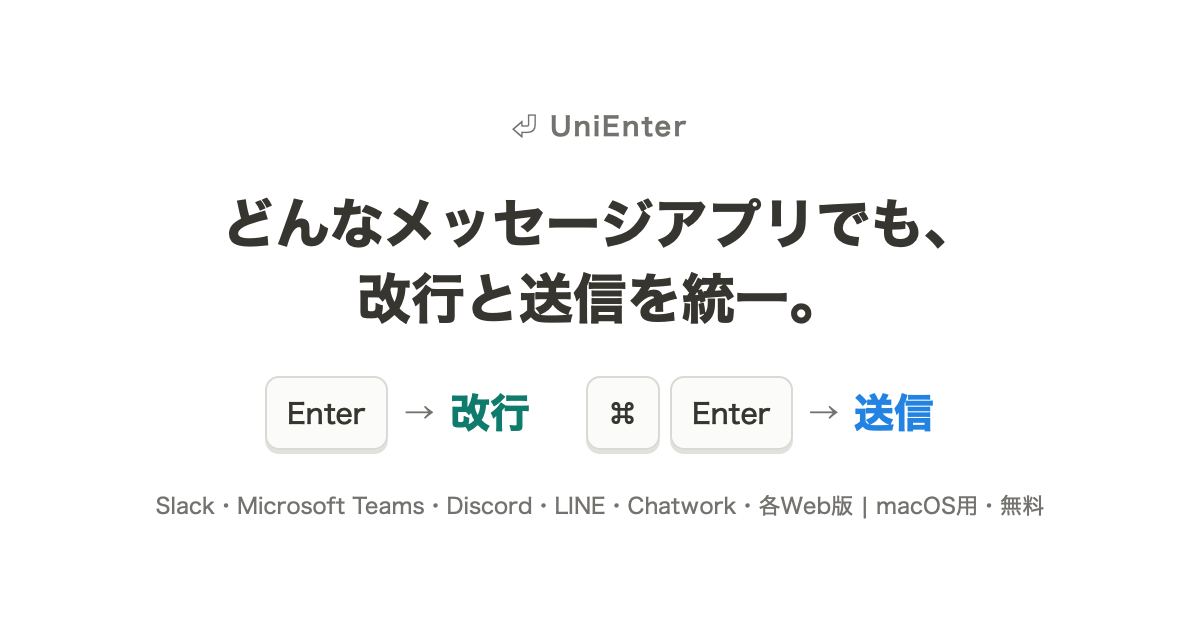
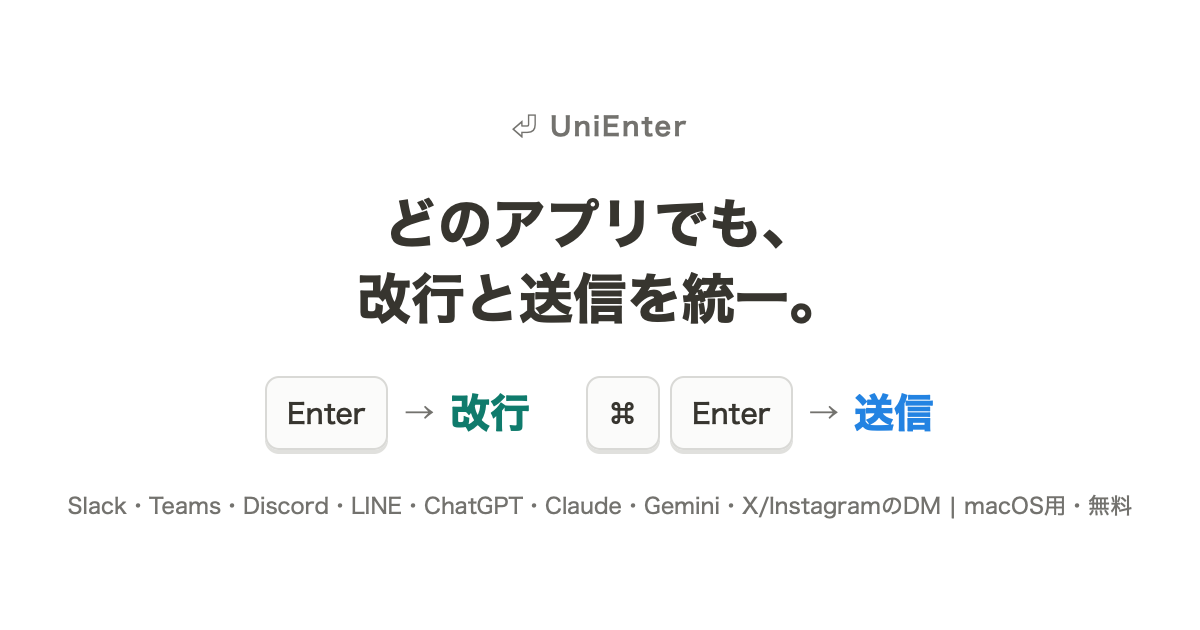
Swap targets: add X/Instagram DM (web, path-gated), drop Chatwork; credit octo with contact

Changed region(s): [[0.185, 0.3016, 0.8017, 0.3921], [0.0617, 0.7841, 0.9558, 0.8444]]

diff --git a/UniEnterTests/WebAppMatcherTests.swift b/UniEnterTests/WebAppMatcherTests.swift
@@ -45,15 +45,29 @@ final class WebAppMatcherTests: XCTestCase {
         XCTAssertNil(match("https://discord.com/download"))
     }
 
-    // MARK: - Chatwork
+    // MARK: - X / Instagram (DMのみ)
 
-    func testChatworkChatScreenMatches() {
-        XCTAssertEqual(match("https://www.chatwork.com/#!rid12345"), "com.electron.chatwork")
+    func testXDirectMessagesMatch() {
+        XCTAssertEqual(match("https://x.com/messages/12345"), "web.x.com")
+        XCTAssertEqual(match("https://twitter.com/messages"), "web.x.com")
     }
 
-    func testChatworkLoginAndMarketingDoNotMatch() {
-        XCTAssertNil(match("https://www.chatwork.com/login.php"))
-        XCTAssertNil(match("https://go.chatwork.com/ja/"))
+    func testXTimelineDoesNotMatch() {
+        XCTAssertNil(match("https://x.com/home"))
+        XCTAssertNil(match("https://x.com/compose/post"))
+    }
+
+    func testInstagramDirectMatches() {
+        XCTAssertEqual(match("https://www.instagram.com/direct/t/12345"), "web.instagram.com")
+    }
+
+    func testInstagramFeedDoesNotMatch() {
+        XCTAssertNil(match("https://www.instagram.com/"))
+        XCTAssertNil(match("https://www.instagram.com/p/abc123/"))
+    }
+
+    func testChatworkNoLongerMatches() {
+        XCTAssertNil(match("https://www.chatwork.com/#!rid12345"))
     }
 
     // MARK: - AIチャット・Messenger
@@ -101,10 +115,10 @@ final class WebAppMatcherTests: XCTestCase {
         XCTAssertNil(WebAppMatcher.serviceBundleID(for: url, hostOnly: false))
     }
 
-    func testHostOnlyRelaxesChatworkFragmentRequirement() {
-        let url = URL(string: "https://www.chatwork.com/")!
-        XCTAssertEqual(WebAppMatcher.serviceBundleID(for: url, hostOnly: true), "com.electron.chatwork")
-        XCTAssertNil(WebAppMatcher.serviceBundleID(for: url, hostOnly: false))
+    func testHostOnlyDoesNotMatchPathGatedSocialHosts() {
+        // XやInstagramはDMパスが確認できない限り対象にしない(Arc等のドメインのみ取得)
+        XCTAssertNil(WebAppMatcher.serviceBundleID(for: URL(string: "https://x.com/")!, hostOnly: true))
+        XCTAssertNil(WebAppMatcher.serviceBundleID(for: URL(string: "https://www.instagram.com/")!, hostOnly: true))
     }
 
     func testHostOnlyStillRejectsUnrelatedHosts() {

diff --git a/site/src/App.tsx b/site/src/App.tsx
@@ -73,7 +73,6 @@ const desktopApps = [
   "Microsoft Teams",
   "Discord",
   "LINE",
-  "Chatwork",
   "ChatGPT",
   "Claude",
   "Messenger",
@@ -180,14 +179,15 @@ export default function App() {
                 ))}
               </div>
               <p className="mt-4 text-xs text-muted-foreground">
-                設定のチェックボックスでアプリごとにオン/オフできます
+                設定のチェックボックスでアプリごとにオン/オフできます。
+                XとInstagramのDM・GeminiはWeb版で対応。
               </p>
             </WindowMock>
             <WindowMock title="ブラウザ — Safari / Chrome / Edge / Arc など">
               <div className="space-y-2">
                 <UrlRow url="app.slack.com" active />
                 <UrlRow url="chatgpt.com" active />
-                <UrlRow url="gemini.google.com" active />
+                <UrlRow url="x.com/messages(DM)" active />
                 <UrlRow url="example.com" active={false} />
               </div>
             </WindowMock>
@@ -280,7 +280,12 @@ export default function App() {
           <a className="underline" href="https://github.com/iwai-ddndn/UniEnter/releases">ダウンロード</a>
           <a className="underline" href="./support.html">開発を支援</a>
         </p>
-        <p>© 2026 UniEnter</p>
+        <p>
+          © 2026 octo — お問い合わせ:{" "}
+          <a className="underline" href="mailto:[email redacted]">
+            [email redacted]
+          </a>
+        </p>
         <p className="mx-auto mt-2 max-w-lg">
           記載の製品名は各社の商標です。本アプリは各社と無関係の個人開発ソフトウェアです。
         </p>

diff --git a/UniEnter/Browser/WebAppMatcher.swift b/UniEnter/Browser/WebAppMatcher.swift
@@ -39,10 +39,6 @@ enum WebAppMatcher {
             // discord.com ルートはマーケティングサイトのためパスで判定
             if hostOnly { return "com.hnc.Discord" }
             return url.path.hasPrefix("/channels") ? "com.hnc.Discord" : nil
-        case "www.chatwork.com":
-            // チャット画面は #!rid{数字}。ログインページ等でフォーム送信のEnterを壊さない
-            if hostOnly { return "com.electron.chatwork" }
-            return (url.fragment?.hasPrefix("!rid") ?? false) ? "com.electron.chatwork" : nil
         case "chatgpt.com", "chat.openai.com":
             // マーケティングは openai.com 側
             return "com.openai.codex"
@@ -57,6 +53,14 @@ enum WebAppMatcher {
             // messenger.com閉鎖後の本体。メッセージ画面のパスに限定(コメント欄等に干渉しない)
             if hostOnly { return nil }
             return url.path.hasPrefix("/messages") ? "com.facebook.archon" : nil
+        case "x.com", "www.x.com", "twitter.com", "www.twitter.com":
+            // DMのみ対象(ポスト作成欄は元々Enter=改行なので触らない)
+            if hostOnly { return nil }
+            return url.path.hasPrefix("/messages") ? "web.x.com" : nil
+        case "www.instagram.com", "instagram.com":
+            // DMのみ対象(コメント欄等に干渉しない)
+            if hostOnly { return nil }
+            return url.path.hasPrefix("/direct") ? "web.instagram.com" : nil
         default:
             return nil
         }

diff --git a/site/src/SupportPage.tsx b/site/src/SupportPage.tsx
@@ -86,7 +86,12 @@ export default function SupportPage() {
       </main>
 
       <footer className="border-t px-6 py-10 text-center text-xs text-muted-foreground">
-        <p>© 2026 UniEnter</p>
+        <p>
+          © 2026 octo — お問い合わせ:{" "}
+          <a className="underline" href="mailto:[email redacted]">
+            [email redacted]
+          </a>
+        </p>
       </footer>
     </div>
   )

diff --git a/UniEnter/UI/SettingsView.swift b/UniEnter/UI/SettingsView.swift
@@ -110,6 +110,12 @@ struct SettingsView: View {
                 get: { model.launchAtLogin },
                 set: { model.setLaunchAtLogin($0) }
             ))
+
+            Divider()
+
+            Text("制作: octo — [[email redacted]](mailto:[email redacted])")
+                .font(.caption)
+                .foregroundColor(.secondary)
         }
         .padding(20)
         .frame(width: 320)

diff --git a/UniEnter/Settings/AppRegistry.swift b/UniEnter/Settings/AppRegistry.swift
@@ -13,8 +13,6 @@ enum AppRegistry {
         TargetApp(name: "Slack", bundleID: "com.tinyspeck.slackmacgap"),
         TargetApp(name: "Discord", bundleID: "com.hnc.Discord"),
         TargetApp(name: "LINE", bundleID: "jp.naver.line.mac"),
-        // Electronビルダー既定の接頭辞をそのまま使っている(com.chatwork.* ではない)
-        TargetApp(name: "Chatwork", bundleID: "com.electron.chatwork"),
         // 2026年7月のCodex統合後の現行ChatGPT.app。旧ChatGPT Classicはaliasesで対応
         TargetApp(name: "ChatGPT", bundleID: "com.openai.codex"),
         TargetApp(name: "Claude", bundleID: "com.anthropic.claudefordesktop"),
@@ -23,6 +21,9 @@ enum AppRegistry {
         TargetApp(name: "Gemini", bundleID: "web.gemini.google.com"),
         // デスクトップアプリは2025年末に廃止済み(残存インストール向け)。主戦場はWeb判定
         TargetApp(name: "Messenger", bundleID: "com.facebook.archon"),
+        // XとInstagramのDMはWeb専用(公式デスクトップアプリなし)。設定キー兼Web判定用の擬似ID
+        TargetApp(name: "X(DM)", bundleID: "web.x.com"),
+        TargetApp(name: "Instagram(DM)", bundleID: "web.instagram.com"),
     ]
 
     /// 同一サービスの別bundle IDを代表IDへ寄せる(設定・判定は代表IDで行う)

diff --git a/docs/index.html b/docs/index.html
@@ -5,12 +5,12 @@
     <meta name="viewport" content="width=device-width, initial-scale=1.0" />
     <link rel="icon" type="image/png" href="./assets/favicon.png" />
     <title>UniEnter — どのアプリでも、改行と送信を統一。</title>
-    <meta name="description" content="Enterはいつでも改行、送信は⌘Enter。Slack・Teams・Discord・LINE・Chatwork・ChatGPT・Claude・Gemini・Messengerとそのブラウザ版で「うっかり送信」をなくすmacOSメニューバーアプリ。日本語IMEに安全設計。無料。" />
+    <meta name="description" content="Enterはいつでも改行、送信は⌘Enter。Slack・Teams・Discord・LINE・ChatGPT・Claude・Gemini・Messenger・X/InstagramのDMとそのブラウザ版で「うっかり送信」をなくすmacOSメニューバーアプリ。日本語IMEに安全設計。無料。" />
     <meta property="og:title" content="UniEnter — どのアプリでも、改行と送信を統一。" />
     <meta property="og:description" content="Enterはいつでも改行、送信は⌘Enter。SlackもChatGPTも、「うっかり送信」をなくします。" />
     <meta property="og:image" content="assets/og.png" />
     <meta property="og:type" content="website" />
-    <script type="module" crossorigin src="./assets/main-BPyX2AMm.js"></script>
+    <script type="module" crossorigin src="./assets/main-CV44kSDD.js"></script>
     <link rel="modulepreload" crossorigin href="./assets/card-Bi2fn4cY.js">
     <link rel="stylesheet" crossorigin href="./assets/card-qIgYnlQx.css">
   </head>

diff --git a/docs/support.html b/docs/support.html
@@ -6,7 +6,7 @@
     <link rel="icon" type="image/png" href="./assets/favicon.png" />
     <title>開発を支援する — UniEnter</title>
     <meta name="description" content="UniEnterは無料で使えるmacOSアプリです。役に立ったら、コーヒー1杯分の投げ銭で開発を応援できます。" />
-    <script type="module" crossorigin src="./assets/support-Chu1tvAc.js"></script>
+    <script type="module" crossorigin src="./assets/support-vKm4Vaa6.js"></script>
     <link rel="modulepreload" crossorigin href="./assets/card-Bi2fn4cY.js">
     <link rel="stylesheet" crossorigin href="./assets/card-qIgYnlQx.css">
   </head>

diff --git a/site/index.html b/site/index.html
@@ -5,7 +5,7 @@
     <meta name="viewport" content="width=device-width, initial-scale=1.0" />
     <link rel="icon" type="image/png" href="./assets/favicon.png" />
     <title>UniEnter — どのアプリでも、改行と送信を統一。</title>
-    <meta name="description" content="Enterはいつでも改行、送信は⌘Enter。Slack・Teams・Discord・LINE・Chatwork・ChatGPT・Claude・Gemini・Messengerとそのブラウザ版で「うっかり送信」をなくすmacOSメニューバーアプリ。日本語IMEに安全設計。無料。" />
+    <meta name="description" content="Enterはいつでも改行、送信は⌘Enter。Slack・Teams・Discord・LINE・ChatGPT・Claude・Gemini・Messenger・X/InstagramのDMとそのブラウザ版で「うっかり送信」をなくすmacOSメニューバーアプリ。日本語IMEに安全設計。無料。" />
     <meta property="og:title" content="UniEnter — どのアプリでも、改行と送信を統一。" />
     <meta property="og:description" content="Enterはいつでも改行、送信は⌘Enter。SlackもChatGPTも、「うっかり送信」をなくします。" />
     <meta property="og:image" content="assets/og.png" />

diff --git a/docs/assets/main-CV44kSDD.js b/docs/assets/main-CV44kSDD.js
@@ -1,0 +1,1 @@
+import{a as e,c as t,d as n,f as r,i,l as a,m as o,n as s,o as c,p as l,r as u,s as d,t as f,u as p}from"./card-Bi2fn4cY.js";var m=p(`chevron-down`,[[`path`,{d:`m6 9 6 6 6-6`,key:`qrunsl`}]]),h=p(`lock`,[[`rect`,{width:`18`,height:`11`,x:`3`,y:`11`,rx:`2`,ry:`2`,key:`1w4ew1`}],[`path`,{d:`M7 11V7a5 5 0 0 1 10 0v4`,key:`fwvmzm`}]]),g=o(l(),1);r();var _=c(),v=[`a`,`button`,`div`,`form`,`h2`,`h3`,`img`,`input`,`label`,`li`,`nav`,`ol`,`p`,`select`,`span`,`svg`,`ul`].reduce((e,t)=>{let n=d(`Primitive.${t}`),r=g.forwardRef((e,r)=>{let{asChild:i,...a}=e,o=i?n:t;return typeof window<`u`&&(window[Symbol.for(`radix-ui`)]=!0),(0,_.jsx)(o,{...a,ref:r})});return r.displayName=`Primitive.${t}`,{...e,[t]:r}},{});function y(e,t=[]){let n=[];function r(t,r){let i=g.createContext(r);i.displayName=t+`Context`;let a=n.length;n=[...n,r];let o=t=>{let{scope:n,children:r,...o}=t,s=n?.[e]?.[a]||i,c=g.useMemo(()=>o,Object.values(o));return(0,_.jsx)(s.Provider,{value:c,children:r})};o.displayName=t+`Provider`;function s(n,o,s={}){let{optional:c=!1}=s,l=o?.[e]?.[a]||i,u=g.useContext(l);if(u)return u;if(r!==void 0)return r;if(!c)throw Error(`\`${n}\` must be used within \`${t}\``)}return[o,s]}let i=()=>{let t=n.map(e=>g.createContext(e));return function(n){let r=n?.[e]||t;return g.useMemo(()=>({[`__scope${e}`]:{...n,[e]:r}}),[n,r])}};return i.scopeName=e,[r,b(i,...t)]}function b(...e){let t=e[0];if(e.length===1)return t;let n=()=>{let n=e.map(e=>({useScope:e(),scopeName:e.scopeName}));return function(e){let r=n.reduce((t,{useScope:n,scopeName:r})=>{let i=n(e)[`__scope${r}`];return{...t,...i}},{});return g.useMemo(()=>({[`__scope${t.scopeName}`]:r}),[r])}};return n.scopeName=t.scopeName,n}function x(e){let n=e+`CollectionProvider`,[r,i]=y(n),[a,o]=r(n,{collectionRef:{current:null},itemMap:new Map}),s=e=>{let{scope:t,children:n}=e,r=g.useRef(null),i=g.useRef(new Map).current;return(0,_.jsx)(a,{scope:t,itemMap:i,collectionRef:r,children:n})};s.displayName=n;let c=e+`CollectionSlot`,l=d(c),u=g.forwardRef((e,n)=>{let{scope:r,children:i}=e,a=t(n,o(c,r).collectionRef);return(0,_.jsx)(l,{ref:a,children:i})});u.displayName=c;let f=e+`CollectionItemSlot`,p=`data-radix-collection-item`,m=d(f),h=g.forwardRef((e,n)=>{let{scope:r,children:i,...a}=e,s=g.useRef(null),c=t(n,s),l=o(f,r);return g.useEffect(()=>(l.itemMap.set(s,{ref:s,...a}),()=>void l.itemMap.delete(s))),(0,_.jsx)(m,{[p]:``,ref:c,children:i})});h.displayName=f;function v(t){let n=o(e+`CollectionConsumer`,t);return g.useCallback(()=>{let e=n.collectionRef.current;if(!e)return[];let t=Array.from(e.querySelectorAll(`[${p}]`));return Array.from(n.itemMap.values()).sort((e,n)=>t.indexOf(e.ref.current)-t.indexOf(n.ref.current))},[n.collectionRef,n.itemMap])}return[{Provider:s,Slot:u,ItemSlot:h},v,i]}var ee=Object.defineProperty,S=(e,t)=>ee(e,`name`,{value:t,configurable:!0}),C=!!(typeof window<`u`&&window.document&&window.document.createElement);function w(e,t,{checkForDefaultPrevented:n=!0}={}){return S(function(r){if(e?.(r),n===!1||!r||!r.defaultPrevented)return t?.(r)},`handleEvent`)}S(w,`composeEventHandlers`);function te(e){if(!C)throw Error(`Cannot access window outside of the DOM`);return e?.ownerDocument?.defaultView??window}S(te,`getOwnerWindow`);function T(e){if(!C)throw Error(`Cannot access document outside of the DOM`);return e?.ownerDocument??document}S(T,`getOwnerDocument`);function E(e,t=!1){let{activeElement:n}=T(e);if(!n?.nodeName)return null;if(D(n)&&n.contentDocument)return E(n.contentDocument.body,t);if(t){let e=n.getAttribute(`aria-activedescendant`);if(e){let t=T(n).getElementById(e);if(t)return t}}return n}S(E,`getActiveElement`);function D(e){return e.tagName===`IFRAME`}S(D,`isFrame`);var O=globalThis?.document?g.useLayoutEffect:()=>{},ne=g.useEffectEvent,re=g.useInsertionEffect;function ie(e){if(typeof ne==`function`)return ne(e);let t=g.useRef(()=>{throw Error(`Cannot call an event handler while rendering.`)});return typeof re==`function`?re(()=>{t.current=e}):O(()=>{t.current=e}),g.useMemo(()=>((...e)=>t.current?.(...e)),[])}var ae=Object.defineProperty,k=(e,t)=>ae(e,`name`,{value:t,configurable:!0}),oe=g.useInsertionEffect||O;function A({prop:e,defaultProp:t,onChange:n=k(()=>{},`onChange`),caller:r}){let[i,a,o]=se({defaultProp:t,onChange:n}),s=e!==void 0;return[s?e:i,g.useCallback(t=>{if(s){let n=j(t)?t(e):t;n!==e&&o.current?.(n)}else a(t)},[s,e,a,o])]}k(A,`useControllableState`);function se({defaultProp:e,onChange:t}){let[n,r]=g.useState(e),i=g.useRef(n),a=g.useRef(t);return oe(()=>{a.current=t},[t]),g.useEffect(()=>{i.current!==n&&(a.current?.(n),i.current=n)},[n,i]),[n,r,a]}k(se,`useUncontrolledState`);function j(e){return typeof e==`function`}k(j,`isFunction`);var M=Symbol(`RADIX:SYNC_STATE`);function ce(e,t,n,r){let{prop:i,defaultProp:a,onChange:o,caller:s}=t,c=i!==void 0,l=ie(o),u=[{...n,state:a}];r&&u.push(r);let[d,f]=g.useReducer((t,n)=>{if(n.type===M)return{...t,state:n.state};let r=e(t,n);return c&&!Object.is(r.state,t.state)&&l(r.state),r},...u),p=d.state,m=g.useRef(p);g.useEffect(()=>{m.current!==p&&(m.current=p,c||l(p))},[p,m,c]);let h=g.useMemo(()=>i===void 0?d:{...d,state:i},[d,i]);return g.useEffect(()=>{c&&!Object.is(i,d.state)&&f({type:M,state:i})},[i,d.state,c]),[h,f]}k(ce,`useControllableStateReducer`);var le=Object.defineProperty,N=(e,t)=>le(e,`name`,{value:t,configurable:!0});function ue(e,t){return g.useReducer((e,n)=>t[e][n]??e,e)}N(ue,`useStateMachine`);var de=N(e=>{let{present:t,children:n}=e,r=fe(t),i=typeof n==`function`?n({present:r.isPresent}):g.Children.only(n),a=F(r.ref,pe(i));return typeof n==`function`||r.isPresent?g.cloneElement(i,{ref:a}):null},`Presence`);function fe(e){let[t,n]=g.useState(),r=g.useRef(null),i=g.useRef(e),a=g.useRef(`none`),o=g.useRef(void 0),[s,c]=ue(e?`mounted`:`unmounted`,{mounted:{UNMOUNT:`unmounted`,ANIMATION_OUT:`unmountSuspended`},unmountSuspended:{MOUNT:`mounted`,ANIMATION_END:`unmounted`},unmounted:{MOUNT:`mounted`}});return g.useEffect(()=>{s===`mounted`?(a.current=o.current??I(r.current),o.current=void 0):a.current=`none`},[s]),O(()=>{let t=r.current,n=i.current;if(n!==e){let r=a.current,s=I(t);e?(o.current=s,c(`MOUNT`)):s===`none`||t?.display===`none`?c(`UNMOUNT`):c(n&&r!==s?`ANIMATION_OUT`:`UNMOUNT`),i.current=e}},[e,c]),O(()=>{if(t){let e,n=t.ownerDocument.defaultView??window,o=N(a=>{let o=I(r.current).includes(CSS.escape(a.animationName));if(a.target===t&&o&&(c(`ANIMATION_END`),!i.current)){let r=t.style.animationFillMode;t.style.animationFillMode=`forwards`,e=n.setTimeout(()=>{t.style.animationFillMode===`forwards`&&(t.style.animationFillMode=r)})}},`handleAnimationEnd`),s=N(e=>{e.target===t&&(a.current=I(r.current))},`handleAnimationStart`);return t.addEventListener(`animationstart`,s),t.addEventListener(`animationcancel`,o),t.addEventListener(`animationend`,o),()=>{n.clearTimeout(e),t.removeEventListener(`animationstart`,s),t.removeEventListener(`animationcancel`,o),t.removeEventListener(`animationend`,o)}}else c(`ANIMATION_END`)},[t,c]),{isPresent:[`mounted`,`unmountSuspended`].includes(s),ref:g.useCallback(e=>{if(e){let t=getComputedStyle(e);r.current=t,o.current=I(t)}else r.current=null;n(e)},[])}}N(fe,`usePresence`);function P(e,t){if(typeof e==`function`)return e(t);e!=null&&(e.current=t)}N(P,`setRef`);function F(...e){let t=g.useRef(e);return t.current=e,g.useCallback(e=>{let n=t.current,r=!1,i=n.map(t=>{let n=P(t,e);return!r&&typeof n==`function`&&(r=!0),n});if(r)return()=>{for(let e=0;e<i.length;e++){let t=i[e];typeof t==`function`?t():P(n[e],null)}}},[])}N(F,`useStableComposedRefs`);function I(e){return e?.animationName||`none`}N(I,`getAnimationName`);function pe(e){let t=Object.getOwnPropertyDescriptor(e.props,`ref`)?.get,n=t&&`isReactWarning`in t&&t.isReactWarning;return n?e.ref:(t=Object.getOwnPropertyDescriptor(e,`ref`)?.get,n=t&&`isReactWarning`in t&&t.isReactWarning,n?e.props.ref:e.props.ref||e.ref)}N(pe,`getElementRef`);var me=g.useId||(()=>void 0),he=0;function L(e){let[t,n]=g.useState(me());return O(()=>{e||n(e=>e??String(he++))},[e]),e||(t?`radix-${t}`:``)}var ge=Object.defineProperty,R=(e,t)=>ge(e,`name`,{value:t,configurable:!0}),z=`Collapsible`,[_e,B]=y(z),[ve,V]=_e(z),ye=g.forwardRef(R(function(e,t){let{__scopeCollapsible:n,open:r,defaultOpen:i,disabled:a,onOpenChange:o,...s}=e,[c,l]=A({prop:r,defaultProp:i??!1,onChange:o,caller:z});return(0,_.jsx)(ve,{scope:n,disabled:a,contentId:L(),open:c,onOpenToggle:g.useCallback(()=>l(e=>!e),[l]),children:(0,_.jsx)(v.div,{"data-state":U(c),"data-disabled":a?``:void 0,...s,ref:t})})},`Collapsible`)),be=`CollapsibleTrigger`,xe=g.forwardRef(R(function(e,t){let{__scopeCollapsible:n,...r}=e,i=V(be,n);return(0,_.jsx)(v.button,{type:`button`,"aria-controls":i.open?i.contentId:void 0,"aria-expanded":i.open||!1,"data-state":U(i.open),"data-disabled":i.disabled?``:void 0,disabled:i.disabled,...r,ref:t,onClick:w(e.onClick,i.onOpenToggle)})},`CollapsibleTrigger`)),H=`CollapsibleContent`,Se=g.forwardRef(R(function(e,t){let{forceMount:n,...r}=e,i=V(H,e.__scopeCollapsible);return(0,_.jsx)(de,{present:n||i.open,children:({present:e})=>(0,_.jsx)(Ce,{...r,ref:t,present:e})})},`CollapsibleContent`)),Ce=g.forwardRef(R(function(e,n){let{__scopeCollapsible:r,present:i,children:a,...o}=e,s=V(H,r),[c,l]=g.useState(i),u=g.useRef(null),d=t(n,u),f=g.useRef(0),p=f.current,m=g.useRef(0),h=m.current,y=s.open||c,b=g.useRef(y),x=g.useRef(void 0);return g.useEffect(()=>{let e=requestAnimationFrame(()=>b.current=!1);return()=>cancelAnimationFrame(e)},[]),O(()=>{let e=u.current;if(e){x.current=x.current||{transitionDuration:e.style.transitionDuration,animationName:e.style.animationName},e.style.transitionDuration=`0s`,e.style.animationName=`none`;let t=e.getBoundingClientRect();f.current=t.height,m.current=t.width,b.current||(e.style.transitionDuration=x.current.transitionDuration,e.style.animationName=x.current.animationName),l(i)}},[s.open,i]),(0,_.jsx)(v.div,{"data-state":U(s.open),"data-disabled":s.disabled?``:void 0,id:s.contentId,hidden:!y,...o,ref:d,style:{"--radix-collapsible-content-height":p?`${p}px`:void 0,"--radix-collapsible-content-width":h?`${h}px`:void 0,...e.style},children:y&&a})},`CollapsibleContentImpl`));function U(e){return e?`open`:`closed`}R(U,`getState`);var we=ye,Te=xe,Ee=Se,De=g.createContext(void 0);function Oe(e){let t=g.useContext(De);return e||t||`ltr`}var ke=Object.defineProperty,W=(e,t)=>ke(e,`name`,{value:t,configurable:!0}),G=`Accordion`,Ae=[`Home`,`End`,`ArrowDown`,`ArrowUp`,`ArrowLeft`,`ArrowRight`],[K,je,Me]=x(G),[q,Ne]=y(G,[Me,B]),J=B(),Pe=g.forwardRef(W(function(e,t){let{type:n,...r}=e,i=r,a=r;return(0,_.jsx)(K.Provider,{scope:e.__scopeAccordion,children:n===`multiple`?(0,_.jsx)(Be,{...a,ref:t}):(0,_.jsx)(ze,{...i,ref:t})})},`Accordion`)),[Fe,Ie]=q(G),[Le,Re]=q(G,{collapsible:!1}),ze=g.forwardRef(W(function(e,t){let{value:n,defaultValue:r,onValueChange:i=W(()=>{},`onValueChange`),collapsible:a=!1,...o}=e,[s,c]=A({prop:n,defaultProp:r??``,onChange:i,caller:G});return(0,_.jsx)(Fe,{scope:e.__scopeAccordion,value:g.useMemo(()=>s?[s]:[],[s]),onItemOpen:c,onItemClose:g.useCallback(()=>a&&c(``),[a,c]),children:(0,_.jsx)(Le,{scope:e.__scopeAccordion,collapsible:a,children:(0,_.jsx)(He,{...o,ref:t})})})},`AccordionImplSingle`)),Be=g.forwardRef(W(function(e,t){let{value:n,defaultValue:r,onValueChange:i=W(()=>{},`onValueChange`),...a}=e,[o,s]=A({prop:n,defaultProp:r??[],onChange:i,caller:G}),c=g.useCallback(e=>s((t=[])=>[...t,e]),[s]),l=g.useCallback(e=>s((t=[])=>t.filter(t=>t!==e)),[s]);return(0,_.jsx)(Fe,{scope:e.__scopeAccordion,value:o,onItemOpen:c,onItemClose:l,children:(0,_.jsx)(Le,{scope:e.__scopeAccordion,collapsible:!0,children:(0,_.jsx)(He,{...a,ref:t})})})},`AccordionImplMultiple`)),[Ve,Y]=q(G),He=g.forwardRef(W(function(e,n){let{__scopeAccordion:r,disabled:i,dir:a,orientation:o=`vertical`,...s}=e,c=t(g.useRef(null),n),l=je(r),u=Oe(a)===`ltr`,d=w(e.onKeyDown,e=>{if(!Ae.includes(e.key))return;let t=e.target,n=l().filter(e=>!e.ref.current?.disabled),r=n.findIndex(e=>e.ref.current===t),i=n.length;if(r===-1)return;e.preventDefault();let a=r,s=i-1,c=W(()=>{a=r+1,a>s&&(a=0)},`moveNext`),d=W(()=>{a=r-1,a<0&&(a=s)},`movePrev`);switch(e.key){case`Home`:a=0;break;case`End`:a=s;break;case`ArrowRight`:o===`horizontal`&&(u?c():d());break;case`ArrowDown`:o===`vertical`&&c();break;case`ArrowLeft`:o===`horizontal`&&(u?d():c());break;case`ArrowUp`:o===`vertical`&&d();break}n[a%i].ref.current?.focus()});return(0,_.jsx)(Ve,{scope:r,disabled:i,direction:a,orientation:o,children:(0,_.jsx)(K.Slot,{scope:r,children:(0,_.jsx)(v.div,{...s,"data-orientation":o,ref:c,onKeyDown:i?void 0:d})})})},`AccordionImpl`)),X=`AccordionItem`,[Ue,Z]=q(X),We=g.forwardRef(W(function(e,t){let{__scopeAccordion:n,value:r,...i}=e,a=Y(X,n),o=Ie(X,n),s=J(n),c=L(),l=r&&o.value.includes(r)||!1,u=a.disabled||e.disabled;return(0,_.jsx)(Ue,{scope:n,open:l,disabled:u,triggerId:c,children:(0,_.jsx)(we,{"data-orientation":a.orientation,"data-state":Q(l),...s,...i,ref:t,disabled:u,open:l,onOpenChange:e=>{e?o.onItemOpen(r):o.onItemClose(r)}})})},`AccordionItem`)),Ge=`AccordionHeader`,Ke=g.forwardRef(W(function(e,t){let{__scopeAccordion:n,...r}=e,i=Y(G,n),a=Z(Ge,n);return(0,_.jsx)(v.h3,{"data-orientation":i.orientation,"data-state":Q(a.open),"data-disabled":a.disabled?``:void 0,...r,ref:t})},`AccordionHeader`)),qe=`AccordionTrigger`,Je=g.forwardRef(W(function(e,t){let{__scopeAccordion:n,...r}=e,i=Y(G,n),a=Z(qe,n),o=Re(qe,n),s=J(n);return(0,_.jsx)(K.ItemSlot,{scope:n,children:(0,_.jsx)(Te,{"aria-disabled":a.open&&!o.collapsible||void 0,"data-orientation":i.orientation,id:a.triggerId,...s,...r,ref:t})})},`AccordionTrigger`)),Ye=`AccordionContent`,Xe=g.forwardRef(W(function(e,t){let{__scopeAccordion:n,...r}=e,i=Y(G,n),a=Z(Ye,n),o=J(n);return(0,_.jsx)(Ee,{role:`region`,"aria-labelledby":a.triggerId,"data-orientation":i.orientation,...o,...r,ref:t,style:{"--radix-accordion-content-height":`var(--radix-collapsible-content-height)`,"--radix-accordion-content-width":`var(--radix-collapsible-content-width)`,...e.style}})},`AccordionContent`));function Q(e){return e?`open`:`closed`}W(Q,`getState`);var Ze=Pe,Qe=We,$e=Ke,et=Je,tt=Xe,nt=n();function rt({...e}){return(0,_.jsx)(Ze,{"data-slot":`accordion`,...e})}function it({className:t,...n}){return(0,_.jsx)(Qe,{"data-slot":`accordion-item`,className:e(`border-b last:border-b-0`,t),...n})}function at({className:t,children:n,...r}){return(0,_.jsx)($e,{className:`flex`,children:(0,_.jsxs)(et,{"data-slot":`accordion-trigger`,className:e(`flex flex-1 items-start justify-between gap-4 rounded-md py-4 text-left text-sm font-medium transition-all outline-none hover:underline focus-visible:border-ring focus-visible:ring-[3px] focus-visible:ring-ring/50 disabled:pointer-events-none disabled:opacity-50 [&[data-state=open]>svg]:rotate-180`,t),...r,children:[n,(0,_.jsx)(m,{className:`pointer-events-none size-4 shrink-0 translate-y-0.5 text-muted-foreground transition-transform duration-200`})]})})}function ot({className:t,children:n,...r}){return(0,_.jsx)(tt,{"data-slot":`accordion-content`,className:`overflow-hidden text-sm data-[state=closed]:animate-accordion-up data-[state=open]:animate-accordion-down`,...r,children:(0,_.jsx)(`div`,{className:e(`pt-0 pb-4`,t),children:n})})}var st=`#0f7b6c`,ct=`#2383e2`;function lt(){return(0,_.jsxs)(`div`,{className:`relative mx-auto mt-12 max-w-3xl overflow-hidden rounded-xl border shadow-sm`,children:[(0,_.jsx)(`img`,{src:`./assets/hero.png`,alt:`Enterキーは改行、⌘Enterキーは送信`,className:`block w-full`}),(0,_.jsxs)(`div`,{className:`absolute inset-x-0 bottom-[9%] flex text-lg font-bold sm:text-2xl`,children:[(0,_.jsx)(`p`,{className:`w-1/2 text-center`,style:{color:st},children:`Enter → 改行`}),(0,_.jsx)(`p`,{className:`w-1/2 text-center`,style:{color:ct},children:`⌘Enter → 送信`})]})]})}function ut({title:e,children:t}){return(0,_.jsxs)(`div`,{className:`overflow-hidden rounded-xl border bg-card text-left shadow-sm`,children:[(0,_.jsxs)(`div`,{className:`flex items-center gap-1.5 border-b bg-muted px-4 py-2.5`,children:[(0,_.jsx)(`span`,{className:`size-2.5 rounded-full bg-[#ff5f57]`}),(0,_.jsx)(`span`,{className:`size-2.5 rounded-full bg-[#febc2e]`}),(0,_.jsx)(`span`,{className:`size-2.5 rounded-full bg-[#28c840]`}),(0,_.jsx)(`span`,{className:`ml-2 truncate text-xs text-muted-foreground`,children:e})]}),(0,_.jsx)(`div`,{className:`p-5`,children:t})]})}function $({url:e,active:t}){return(0,_.jsxs)(`div`,{className:`flex items-center justify-between gap-2 rounded-lg border bg-background px-3 py-2`,children:[(0,_.jsxs)(`span`,{className:`flex min-w-0 items-center gap-2 text-sm`,children:[(0,_.jsx)(h,{className:`size-3.5 shrink-0 text-muted-foreground`}),(0,_.jsx)(`span`,{className:`truncate`,children:e})]}),t?(0,_.jsx)(i,{className:`shrink-0 border-transparent bg-[#dbeddb] text-[#1c3829]`,children:`統一`}):(0,_.jsx)(i,{variant:`secondary`,className:`shrink-0 text-muted-foreground`,children:`干渉しない`})]})}var dt=[`Slack`,`Microsoft Teams`,`Discord`,`LINE`,`ChatGPT`,`Claude`,`Messenger`],ft=[{q:`必要な権限は?`,a:`アクセシビリティのみ。初回起動時に画面の案内に沿って許可するだけです。`},{q:`日本語の変換確定Enterが誤送信されない?`,a:`されません。変換中のEnterは一切書き換えず、判定に迷ったときも「何もしない」側に倒すフェイルセーフ設計です。`},{q:`アプリ側で「⌘Enterで送信」にしている`,a:`設定でそのアプリの送信キーを⌘Enterに切り替えると、書き換えを止めてアプリ本来の動作をそのまま使います。`},{q:`入力内容を読まれない?`,a:`読みません。判定に使うのはEnter関連のキー・前面アプリ・日本語入力かどうかだけ。外部送信も一切ありません。`},{q:`開こうとすると「開発元を確認できない」と警告が出る`,a:`現在はApple公証の準備中のため、初回のみ システム設定 → プライバシーとセキュリティ → 下部の「このまま開く」から起動してください。2回目以降は普通に開けます。`}];function pt(){return(0,_.jsxs)(`div`,{className:`min-h-screen`,children:[(0,_.jsxs)(`nav`,{className:`mx-auto flex max-w-5xl items-center justify-between px-6 py-5`,children:[(0,_.jsxs)(`span`,{className:`flex items-center gap-2 font-semibold`,children:[(0,_.jsx)(a,{className:`size-4`}),` UniEnter`]}),(0,_.jsxs)(`div`,{className:`flex items-center gap-2`,children:[(0,_.jsx)(u,{variant:`ghost`,size:`sm`,asChild:!0,children:(0,_.jsx)(`a`,{href:`./support.html`,children:`☕ 支援`})}),(0,_.jsx)(u,{variant:`outline`,size:`sm`,asChild:!0,children:(0,_.jsx)(`a`,{href:`https://github.com/iwai-ddndn/UniEnter`,children:`GitHub`})})]})]}),(0,_.jsxs)(`header`,{className:`px-6 pt-16 pb-20 text-center`,children:[(0,_.jsx)(i,{variant:`secondary`,className:`mb-6 font-normal text-muted-foreground`,children:`macOS用メニューバーアプリ・無料`}),(0,_.jsxs)(`h1`,{className:`text-3xl leading-snug font-bold sm:text-5xl sm:leading-snug`,children:[`どのアプリでも、`,(0,_.jsx)(`br`,{}),`改行と送信を統一。`]}),(0,_.jsxs)(`p`,{className:`mx-auto mt-5 max-w-lg text-muted-foreground`,children:[`Enterはいつでも改行、送信は⌘Enter。`,(0,_.jsx)(`br`,{}),`SlackもTeamsも、ChatGPTもClaudeも — 「うっかり送信」をなくします。`]}),(0,_.jsx)(lt,{}),(0,_.jsxs)(`div`,{className:`mt-12 flex flex-wrap items-center justify-center gap-3`,children:[(0,_.jsx)(u,{size:`lg`,asChild:!0,children:(0,_.jsx)(`a`,{href:`https://github.com/iwai-ddndn/UniEnter/releases/latest/download/UniEnter.zip`,children:`ダウンロード`})}),(0,_.jsx)(u,{size:`lg`,variant:`outline`,asChild:!0,children:(0,_.jsx)(`a`,{href:`#faq`,children:`よくある質問`})})]}),(0,_.jsxs)(`p`,{className:`mt-4 text-xs text-muted-foreground`,children:[`macOS 13以降・無料 /`,` `,(0,_.jsx)(`a`,{className:`underline`,href:`https://github.com/iwai-ddndn/UniEnter/releases`,children:`リリース一覧`})]})]}),(0,_.jsx)(`section`,{className:`border-t bg-muted/50 px-6 py-20`,children:(0,_.jsxs)(`div`,{className:`mx-auto max-w-4xl`,children:[(0,_.jsx)(`h2`,{className:`mb-3 text-center text-2xl font-bold sm:text-3xl`,children:`アプリでも、ブラウザでも。`}),(0,_.jsx)(`p`,{className:`mx-auto mb-10 max-w-md text-center text-muted-foreground`,children:`対象のアプリやタブが前面のときだけ働きます。それ以外には一切干渉しません。`}),(0,_.jsx)(`img`,{src:`./assets/macbook.png`,alt:`MacBookでチャットアプリを使っている様子`,className:`mb-10 w-full rounded-xl border shadow-sm`}),(0,_.jsxs)(`div`,{className:`grid gap-5 sm:grid-cols-2`,children:[(0,_.jsxs)(ut,{title:`デスクトップアプリ`,children:[(0,_.jsx)(`div`,{className:`flex flex-wrap gap-2`,children:dt.map(e=>(0,_.jsx)(i,{variant:`secondary`,className:`px-3 py-1.5 text-sm font-normal`,children:e},e))}),(0,_.jsx)(`p`,{className:`mt-4 text-xs text-muted-foreground`,children:`設定のチェックボックスでアプリごとにオン/オフできます。 XとInstagramのDM・GeminiはWeb版で対応。`})]}),(0,_.jsx)(ut,{title:`ブラウザ — Safari / Chrome / Edge / Arc など`,children:(0,_.jsxs)(`div`,{className:`space-y-2`,children:[(0,_.jsx)($,{url:`app.slack.com`,active:!0}),(0,_.jsx)($,{url:`chatgpt.com`,active:!0}),(0,_.jsx)($,{url:`x.com/messages(DM)`,active:!0}),(0,_.jsx)($,{url:`example.com`,active:!1})]})})]})]})}),(0,_.jsx)(`section`,{className:`px-6 py-20`,children:(0,_.jsxs)(`div`,{className:`mx-auto grid max-w-5xl gap-5 sm:grid-cols-3`,children:[(0,_.jsx)(f,{className:`shadow-sm`,children:(0,_.jsxs)(s,{className:`pt-2`,children:[(0,_.jsx)(`img`,{src:`./assets/feature-ime.png`,alt:`「あ」と刻印されたキーキャップ`,className:`mb-5 aspect-[3/2] w-full rounded-lg border object-cover`}),(0,_.jsx)(`h3`,{className:`mb-2 font-semibold`,children:`日本語入力に、とことん安全`}),(0,_.jsx)(`p`,{className:`text-sm text-muted-foreground`,children:`変換中のEnterには触れず、確定はそのまま。判定に迷ったら「何もしない」設計。`})]})}),(0,_.jsx)(f,{className:`shadow-sm`,children:(0,_.jsxs)(s,{className:`pt-2`,children:[(0,_.jsx)(`img`,{src:`./assets/feature-config.png`,alt:`チェックボックス`,className:`mb-5 aspect-[3/2] w-full rounded-lg border object-cover`}),(0,_.jsx)(`h3`,{className:`mb-2 font-semibold`,children:`設定は、チェックを入れるだけ`}),(0,_.jsx)(`p`,{className:`text-sm text-muted-foreground`,children:`インストールして対象アプリを選ぶだけ。覚えることはありません。`})]})}),(0,_.jsx)(f,{className:`shadow-sm`,children:(0,_.jsxs)(s,{className:`pt-2`,children:[(0,_.jsx)(`img`,{src:`./assets/feature-light.png`,alt:`羽根`,className:`mb-5 aspect-[3/2] w-full rounded-lg border object-cover`}),(0,_.jsx)(`h3`,{className:`mb-2 font-semibold`,children:`軽くて、何も送らない`}),(0,_.jsx)(`p`,{className:`text-sm text-muted-foreground`,children:`CPUほぼ0%。通信・解析ゼロ。判定するのはEnter関連のキーだけで、文章は読みません。`})]})})]})}),(0,_.jsx)(`section`,{id:`faq`,className:`border-t bg-muted/50 px-6 py-20`,children:(0,_.jsxs)(`div`,{className:`mx-auto max-w-xl`,children:[(0,_.jsx)(`h2`,{className:`mb-8 text-center text-2xl font-bold`,children:`よくある質問`}),(0,_.jsx)(rt,{type:`single`,collapsible:!0,children:ft.map(({q:e,a:t})=>(0,_.jsxs)(it,{value:e,children:[(0,_.jsx)(at,{className:`text-left`,children:e}),(0,_.jsx)(ot,{className:`text-muted-foreground`,children:t})]},e))})]})}),(0,_.jsx)(`section`,{className:`px-6 pb-20`,children:(0,_.jsx)(f,{className:`mx-auto max-w-xl text-center shadow-sm`,children:(0,_.jsxs)(s,{className:`py-8`,children:[(0,_.jsx)(`h2`,{className:`mb-2 text-lg font-bold`,children:`無料で使えます`}),(0,_.jsx)(`p`,{className:`mb-5 text-sm text-muted-foreground`,children:`役に立ったら、コーヒー1杯分の応援をもらえるとうれしいです。`}),(0,_.jsx)(u,{variant:`outline`,asChild:!0,children:(0,_.jsx)(`a`,{href:`./support.html`,children:`☕ 開発を支援する`})})]})})}),(0,_.jsxs)(`footer`,{className:`border-t px-6 py-10 text-center text-xs text-muted-foreground`,children:[(0,_.jsxs)(`p`,{className:`mb-2 space-x-4`,children:[(0,_.jsx)(`a`,{className:`underline`,href:`https://github.com/iwai-ddndn/UniEnter`,children:`GitHub`}),(0,_.jsx)(`a`,{className:`underline`,href:`https://github.com/iwai-ddndn/UniEnter/releases`,children:`ダウンロード`}),(0,_.jsx)(`a`,{className:`underline`,href:`./support.html`,children:`開発を支援`})]}),(0,_.jsxs)(`p`,{children:[`© 2026 octo — お問い合わせ:`,` `,(0,_.jsx)(`a`,{className:`underline`,href:`mailto:[email redacted]`,children:`[email redacted]`})]}),(0,_.jsx)(`p`,{className:`mx-auto mt-2 max-w-lg`,children:`記載の製品名は各社の商標です。本アプリは各社と無関係の個人開発ソフトウェアです。`})]})]})}(0,nt.createRoot)(document.getElementById(`root`)).render((0,_.jsx)(g.StrictMode,{children:(0,_.jsx)(pt,{})}));

diff --git a/docs/assets/support-vKm4Vaa6.js b/docs/assets/support-vKm4Vaa6.js
@@ -1,0 +1,1 @@
+import{d as e,i as t,l as n,m as r,n as i,o as a,p as o,r as s,t as c,u as l}from"./card-Bi2fn4cY.js";var u=l(`coffee`,[[`path`,{d:`M10 2v2`,key:`7u0qdc`}],[`path`,{d:`M14 2v2`,key:`6buw04`}],[`path`,{d:`M16 8a1 1 0 0 1 1 1v8a4 4 0 0 1-4 4H7a4 4 0 0 1-4-4V9a1 1 0 0 1 1-1h14a4 4 0 1 1 0 8h-1`,key:`pwadti`}],[`path`,{d:`M6 2v2`,key:`colzsn`}]]),d=l(`heart-handshake`,[[`path`,{d:`M19.414 14.414C21 12.828 22 11.5 22 9.5a5.5 5.5 0 0 0-9.591-3.676.6.6 0 0 1-.818.001A5.5 5.5 0 0 0 2 9.5c0 2.3 1.5 4 3 5.5l5.535 5.362a2 2 0 0 0 2.879.052 2.12 2.12 0 0 0-.004-3 2.124 2.124 0 1 0 3-3 2.124 2.124 0 0 0 3.004 0 2 2 0 0 0 0-2.828l-1.881-1.882a2.41 2.41 0 0 0-3.409 0l-1.71 1.71a2 2 0 0 1-2.828 0 2 2 0 0 1 0-2.828l2.823-2.762`,key:`17lmqv`}]]),f=l(`heart`,[[`path`,{d:`M2 9.5a5.5 5.5 0 0 1 9.591-3.676.56.56 0 0 0 .818 0A5.49 5.49 0 0 1 22 9.5c0 2.29-1.5 4-3 5.5l-5.492 5.313a2 2 0 0 1-3 .019L5 15c-1.5-1.5-3-3.2-3-5.5`,key:`mvr1a0`}]]),p=r(o(),1),m=e(),h=a(),g=[{icon:u,name:`Buy Me a Coffee`,description:`コーヒー1杯分から、単発で応援できます。`,url:``,ready:!1},{icon:d,name:`GitHub Sponsors`,description:`GitHubアカウントで、単発・月額どちらでも。手数料0%で全額届きます。`,url:``,ready:!1}];function _(){return(0,h.jsxs)(`div`,{className:`min-h-screen`,children:[(0,h.jsxs)(`nav`,{className:`mx-auto flex max-w-5xl items-center justify-between px-6 py-5`,children:[(0,h.jsxs)(`a`,{href:`./`,className:`flex items-center gap-2 font-semibold`,children:[(0,h.jsx)(n,{className:`size-4`}),` UniEnter`]}),(0,h.jsx)(s,{variant:`outline`,size:`sm`,asChild:!0,children:(0,h.jsx)(`a`,{href:`./`,children:`トップへ戻る`})})]}),(0,h.jsxs)(`main`,{className:`mx-auto max-w-xl px-6 py-16`,children:[(0,h.jsxs)(`div`,{className:`text-center`,children:[(0,h.jsx)(f,{className:`mx-auto mb-4 size-8 text-[#d44c47]`}),(0,h.jsx)(`h1`,{className:`text-3xl font-bold`,children:`開発を支援する`}),(0,h.jsxs)(`p`,{className:`mt-4 text-muted-foreground`,children:[`UniEnterは無料で、広告もありません。`,(0,h.jsx)(`br`,{}),`役に立ったら、コーヒー1杯分の投げ銭で応援してもらえるとうれしいです。`]})]}),(0,h.jsx)(`div`,{className:`mt-10 space-y-4`,children:g.map(({icon:e,name:n,description:r,url:a,ready:o})=>(0,h.jsx)(c,{className:`shadow-sm`,children:(0,h.jsxs)(i,{className:`flex items-center gap-4 py-5`,children:[(0,h.jsx)(e,{className:`size-6 shrink-0 text-muted-foreground`}),(0,h.jsxs)(`div`,{className:`min-w-0 flex-1`,children:[(0,h.jsx)(`p`,{className:`font-semibold`,children:n}),(0,h.jsx)(`p`,{className:`text-sm text-muted-foreground`,children:r})]}),o?(0,h.jsx)(s,{asChild:!0,children:(0,h.jsx)(`a`,{href:a,target:`_blank`,rel:`noopener noreferrer`,children:`支援する`})}):(0,h.jsx)(t,{variant:`secondary`,className:`shrink-0 text-muted-foreground`,children:`準備中`})]})},n))}),(0,h.jsxs)(`div`,{className:`mt-10 rounded-xl border bg-muted p-6 text-sm text-muted-foreground`,children:[(0,h.jsx)(`p`,{className:`mb-2 font-semibold text-foreground`,children:`支援金の使い道`}),(0,h.jsxs)(`ul`,{className:`list-inside list-disc space-y-1`,children:[(0,h.jsx)(`li`,{children:`Apple Developer Program 年会費(アプリの公証 = 警告なしで開けるようにする費用)`}),(0,h.jsx)(`li`,{children:`対応アプリ・対応ブラウザの拡充と検証`})]}),(0,h.jsx)(`p`,{className:`mt-4 text-xs`,children:`支援は任意の寄付であり、ソフトウェアやサポートの対価ではありません。 支援の有無にかかわらず、すべての機能を無料で利用できます。`})]})]}),(0,h.jsx)(`footer`,{className:`border-t px-6 py-10 text-center text-xs text-muted-foreground`,children:(0,h.jsxs)(`p`,{children:[`© 2026 octo — お問い合わせ:`,` `,(0,h.jsx)(`a`,{className:`underline`,href:`mailto:[email redacted]`,children:`[email redacted]`})]})})]})}(0,m.createRoot)(document.getElementById(`root`)).render((0,h.jsx)(p.StrictMode,{children:(0,h.jsx)(_,{})}));

diff --git a/README.md b/README.md
@@ -12,14 +12,18 @@
 
 ## 対象アプリ
 
-| アプリ | bundle ID |
-|---|---|
-| Microsoft Teams(新) | `com.microsoft.teams2` |
-| Microsoft Teams(classic) | `com.microsoft.teams` |
-| Slack | `com.tinyspeck.slackmacgap` |
-| Discord | `com.hnc.Discord` |
-| LINE | `jp.naver.line.mac` |
-| Chatwork | `com.electron.chatwork` |
+| サービス | デスクトップアプリ | Web版 |
+|---|---|---|
+| Slack | ○ | app.slack.com |
+| Microsoft Teams(新/classic) | ○ | teams.cloud.microsoft ほか |
+| Discord | ○ | discord.com/channels |
+| LINE | ○ | —(Web版なし) |
+| ChatGPT | ○(Codex統合版/Classic両対応) | chatgpt.com |
+| Claude | ○ | claude.ai |
+| Gemini | —(ID確認中) | gemini.google.com |
+| Messenger | ○(廃止済みアプリの残存向け) | messenger.com / facebook.com/messages |
+| X | — | x.com/messages(DMのみ) |
+| Instagram | — | instagram.com/direct(DMのみ) |
 
 対象アプリ以外ではイベントに一切干渉しない。
 
@@ -112,3 +116,7 @@ UniEnterTests/    RemapEngineTests.swift(判定ロジックの網羅テスト)
 ```
 
 `project.yml`(XcodeGen)がプロジェクト定義のソースオブトゥルース。`.xcodeproj`は生成物でありgit管理外。
+
+## 制作者
+
+octo — お問い合わせ: [[email redacted]](mailto:[email redacted])